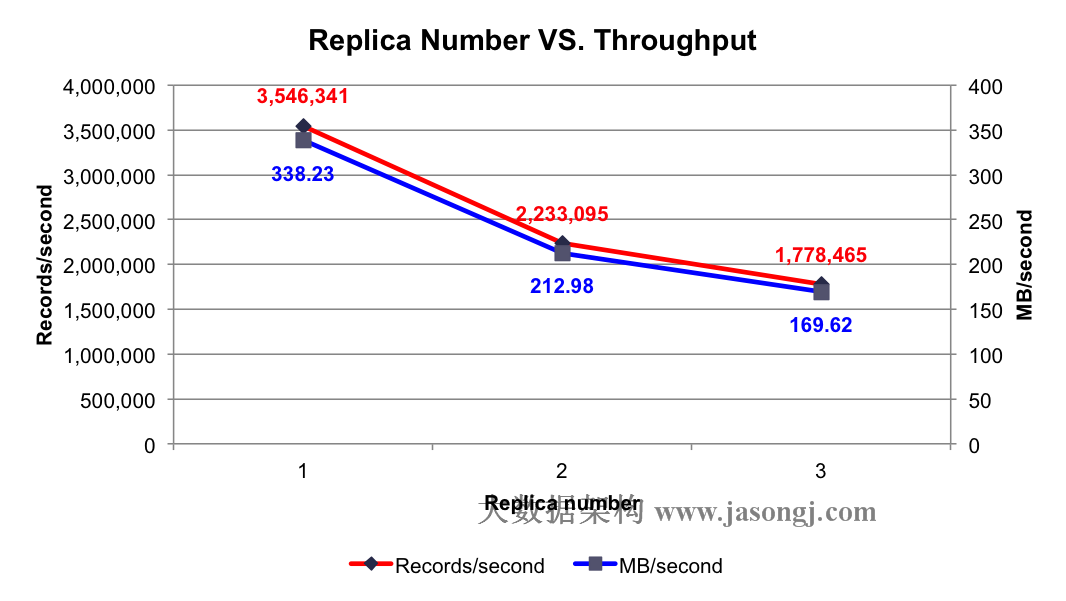
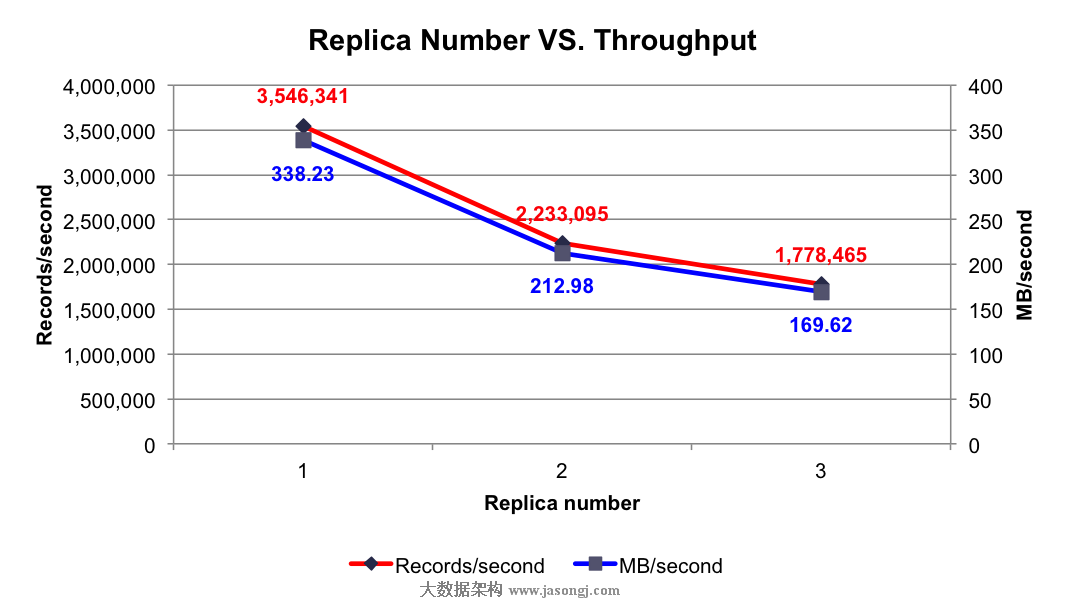
Update kafka benchmark watermark

Changed region(s): [[0.4334, 0.8087, 0.8358, 0.8985], [0.4024, 0.9584, 0.5882, 1.0]]

diff --git a/source/README.md b/source/README.md
@@ -1,0 +1,11 @@
+Java设计模式
+---
+
+本项目主要记录《Java设计模式》系列文章对应的实例代码，具体的文章详见[作者个人博客](http://www.jasongj.com) [http://www.jasongj.com](http://www.jasongj.com)
+
+- [Java设计模式（一） 简单工厂模式不简单](http://www.jasongj.com/design_pattern/simple_factory/)
+- [Java设计模式（二） 工厂方法模式](http://www.jasongj.com/design_pattern/factory_method/)
+- [Java设计模式（三） 抽象工厂模式](http://www.jasongj.com/design_pattern/abstract_factory/)
+- [Java设计模式（四） 观察者模式 ](http://www.jasongj.com/design_pattern/observer/)
+- [Java设计模式（五） 组合模式](http://www.jasongj.com/design_pattern/composite/)
+- [Java设计模式（六） 代理模式 VS. 装饰模式](http://www.jasongj.com/design_pattern/proxy_decorator/)
